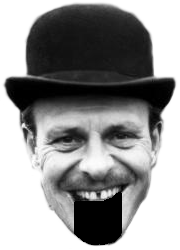
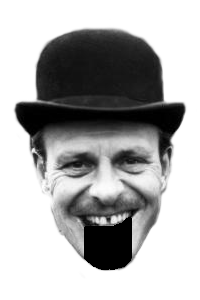
added more comments to the code, as well as cleaned up the unncessary bits

diff --git a/js/soundCreation.js b/js/soundCreation.js
@@ -1,24 +1,35 @@
 
-var intervalID = [];//create storage for the interval ID values so the tones can be stopped
+var intervalID = [];//create storage for the interval ID values so the tones and mouth animations can be stopped
 var context = new AudioContext();
 var masterVolume = context.createGain();
-masterVolume.gain.value = 0.2;
+masterVolume.gain.value = 0.5;//set volume of the beats
 masterVolume.connect(context.destination);//link the volume setting to the AudioContext
-var rap= ""
+//var rap= ""
 var isTTSgoing = false; //used by the startTTS function, and checked by the playSound function to see if there is a current TTS session going, so that the beat doesnt stop between words
+var rapPhrases = ["yo",
+"give it to me",
+"gimme some",
+"thats what",
+"heya",
+"what",
+"lets go",
+"thats it",
+"holla",
+"sup",
+ "player",
+ "homeslice",
+ "homeslizzle" ]; //list of rap words that will be used when generating the rap string
 
 
-//creates a safe and censored version of the rap that is displayed on the page
-function censorship()
-{
-    var censoredRap = rap.replace(/\./g,"")
-    document.getElementById("displayRap").innerHTML = censoredRap
-}
-
-//returns a string rap, which consists of random words from the dictionary between raplike phrases
+/**
+Creates a rap with length number of random dictionary words 
+as well as length number of rapPhrases, so the total length of
+the rap will be length*2 number of phrases
+this function accesses the rapPhrases array and the dist.js file to grab words to create the rap.
+returns an array of length = length*2 that contains string values of random words and rap phrases from rapPhrases array.
+*/
 function createRap(length)
 {
-	var rapwords = ["yo","give it to me","gimme some","thats what","heya","what","lets go","thats it","holla","sup", "player", "homeslice", "homeslizzle" ];
 	var j=0
 	var rap = [];
     var rapString = ""
@@ -26,7 +37,7 @@ function createRap(length)
 	while(j<length)
 	{
 		rand = Math.floor((Math.random()*109560)+1);//there are lots of words in the dict array in the dist.js file
-        rapPhrase = rapwords[Math.floor((Math.random()*rapwords.length))]       
+        rapPhrase = rapPhrases[Math.floor((Math.random()*rapPhrases.length))]       
         rapWord = dict[rand].word
         rap.push(rapWord)
         rap.push(rapPhrase)
@@ -35,9 +46,12 @@ function createRap(length)
 	return rap
 }
 
-//Create a tone with a specified duration, freq, detune and type
-//type is a number from 1-4
-//duration in miliseconds
+/*
+ Creates a tone with a specified duration in milliseconds,
+ a frequency in hertz,
+ a detune value
+ and a integer value for the wavetype from 1-4 (sine, square, sawtooth, triangle)
+*/
 function createSound(duration, frequency, detune, type)
 {
 	duration = duration/1000 //convert from miliseconds to seconds
@@ -52,13 +66,17 @@ function createSound(duration, frequency, detune, type)
 	osc.stop(startTime+duration);
 }
 
+/*
+Recursive function that works its way through the rapArray of of string words and plays them one after another, as well the function
+handles the updating of the rap display <p> (id=display) that shows the current word being spoke and the one before and after it.
+*/
 function startTTS(rapArray, voice, speed, recurseCounter)
 {
     isTTSgoing = true //Speech has started and the beat shouldnt stop
     if(recurseCounter < rapArray.length)//there is more words to say
     {
         var disp = document.getElementById("display")
-        if(recurseCounter == 0)//Cant display the previous word cause there isnt one
+        if(recurseCounter == 0)//On the first word, Cant display the previous word cause there isnt one
         {
             disp.innerHTML=" <br/><b>"+rapArray[recurseCounter]+"</b><br/>"+rapArray[recurseCounter+1]
         }
@@ -79,22 +97,27 @@ function startTTS(rapArray, voice, speed, recurseCounter)
     //else there is nothing to say
 }
 
-//TTS reads the rap and plays the beat
-function startRap(voice, speed) {
-stopRap(intervalID)//stop any currently running raps
-rap = createRap(1000);
-console.log(rap)
-startTTS(rap, voice, speed, 0)
-//censorship();
-//responsiveVoice.speak(rap, voice, {rate: speed});
-playSound(500, 65, 0, 4, 1000)
-playSound(100, 100, 0,4, 400)
-//playSound(100, 1000, 0,4, 2000)
-animateMouth()
-    	
+/*
+creates a rap array, begins TTS playback with a the specified voice and speed, starts the beat and starts the mouth animations
+
+*/
+function startRap(voice, speed)
+{
+    stopRap(intervalID)//stop any currently running raps
+    rap  = createRap(1000);
+    startTTS(rap, voice, speed, 0)
+    
+    //create the beat
+    playSound(500, 65, 0, 4, 1000)
+    playSound(100, 100, 0,4, 400)
+   
+    animateMouth()        	
 };
 
-//stop the beats
+/*
+clears the interval sessions that are running the mouth animations and the beats,
+ as well as sets isTTSgoing to false, stopping the voice and clearing the rap display on the page
+*/
 function stopRap(intervalArray) {
 	{
 		for (i = 0; i < intervalArray.length; i++) { 
@@ -103,10 +126,17 @@ function stopRap(intervalArray) {
 		responsiveVoice.cancel();
 		isTTSgoing = false;
 		intervalArray = [];
+        var disp = document.getElementById("display")
+        disp.innerHTML = "";
 	}
 };
 
-//plays a tone with specificed freq, detuene, type and duration on a loop every so many miliseconds  specified by period
+/*
+plays a sound with a specified duration and period in milliseconds, as well as specified frequency, detune and type in the same
+format as createSound.
+the period specified should be >= to the duration, as the period specifes how often the tone is played, and if the duration of the tune is longer,
+there will be an overlap
+*/
 function playSound(duration, frequency, detune, type, period)
 {	
 	intervalID.push(setInterval(function(){
@@ -121,15 +151,20 @@ function playSound(duration, frequency, detune, type, period)
     }, period))
 }
 
+/*This function accesses the mouth image on the on the page and moves it down 18px, and back up after a specified closeTime in milliseconds essentially animating the mouth*/
 function openThenCloseMouth(closeTime)
 {
    var element = document.getElementById("mouth");
-   //console.log(element.style.top)
    element.style.top = 'calc(50% + 18px)';
    window.setTimeout(function(){element.style.top = '50%'}, closeTime)
    
 } 
-//randomizes the mouth movement by a certian degree run on the same interval block as the sound beats
+
+/*
+Animates the mouth by setting it on an interval of 400 milliseconds, within that 400 millisecond time window the mouth opening and closing sequence
+is slightly randomized, having the mouth open at the start of the 400 milliseconds and closing somewhere between 300 and 400 milliseconds, 
+the randomness of the closing makes the animation look a little more real when played together with the TTS and the beat.
+*/
 function animateMouth()
 {
 
@@ -138,7 +173,7 @@ function animateMouth()
        
         if(isTTSgoing == true)
         {
-        openThenCloseMouth(closeTime)//open and close the mouth at speed between 50 and 100
+        openThenCloseMouth(closeTime)
         }
         else
         {
@@ -148,4 +183,52 @@ function animateMouth()
 
 }
 
+//helper function used in onPressStartOrStop to start the rap
+function clickStart()
+{
+	startRap("UK English Male", 0.9)
+}
+
+/*
+Function called when the user clicks on the image of the rapper, 
+it will start a new rap if there isnt one currently playing or
+ stop the current rap if it is playing
+*/
+function onPressStartOrStop()
+{
+	if(isTTSgoing == true)
+        {
+        stopRap(intervalID);
+        
+        }
+        else
+        {
+        clickStart();
+        }
+}
+
+/*Unused function regarding the Hypenation which never panned out
+My original Idea was to set the mouth animations on a loop that would open and close on sylable/ word breaks, so that it would look realistic,
+unfortuantly I could not figure out a way to run any code in between sylables, 
+I tried an array of the sylables similar to how the rap reader is structured now, but the pronouciation of the words wasnt coming through when
+broken into seperate calls to the responsive voice. 
+I also played around a bit with the google TTS, that supposidly had support of a text to speech markdown language that would have allowed me to 
+add flags into the reading itself to function calls, but it did not pan out, i couldnt get the markdown language to work, I feel like there is
+not yet support for it, as the W3 specifications are pretty new. 
+https://developer.mozilla.org/en-US/docs/Web/API/SpeechSynthesisUtterance/text 
+note above there is suppose to be support for SSML, but i couldnt get it working
+https://developer.mozilla.org/en-US/docs/Web/API/SpeechSynthesisUtterance/onmark
+my plan was to use the function above, build an SSML document and add marks at the sylable start/stop points so I could animate the mouth on the marks
+unfortunatly I could not get the SSML to work, maybe will have to try again some other time, there is very little information or support on
+the subject.
+//TAKES THE TEXT IN p.hyphenate and put hyphens between sylables
+function hyp()
+{
+    $('p.hyphenate').hyphenate('en-us');
+    var hypString = document.getElementById("hyp").innerHTML
+    console.log(hypString)
+    var result = hypString.replace(/[\u00AD\u002D\u2011]+/g,'-');
+    console.log(result)
+}
+*/
 

diff --git a/index.html b/index.html
@@ -13,87 +13,16 @@
 <link href='https://fonts.googleapis.com/css?family=Tangerine' rel='stylesheet' type='text/css'>
 
 <script>
-function createCustomSound()
-{
-	var freq = document.getElementById('frequency').value
-	var detune = document.getElementById('detune').value
-	var dur = document.getElementById('duration').value
-	var per = document.getElementById('period').value
-	var type = document.getElementById('type').value
-	playSound(dur, freq, detune, type, per)
-}
-
-function clickStart()
-{
-	//var voice = document.getElementById("voiceType").value;
-	//var speed = parseInt(document.getElementById("voiceSpeed").value);
-	//var speedDec = speed.toFixed(2)/10.00;//move the value to have 2 decimal places
-	startRap("UK English Male", 0.9)
-}
-//stopRap(intervalID)
-
-//TAKES THE TEXT IN p.hyphenate and put hyphens between sylables
-function hyp()
-{
-
-    $('p.hyphenate').hyphenate('en-us');
-    var hypString = document.getElementById("hyp").innerHTML
-    console.log(hypString)
-    var result = hypString.replace(/[\u00AD\u002D\u2011]+/g,'-');
-    console.log(result)
-}
-//start or stop the rap depending on if its going already
-function onPressStartOrStop()
-{
-	if(isTTSgoing == true)
-        {
-        stopRap(intervalID);
-        }
-        else
-        {
-        clickStart();
-        }
-}
-//stopRap(intervalID)
 
 </script>
     </head>
     <body>
         <div class="container">
-            <!--<h1>Generated Rap Experience</h1>
-            <p id="displayRap"></p>
-            <button id="play" onclick='clickStart();'>Start</button>
-			<button id="play" onclick='stopRap(intervalID)'>Stop</button>
-			<select id="voiceType">
-			  <option value="UK English Male">Male</option>
-			  <option value="UK English Female">Female</option>
-			</select>
-			<p>Voice Speed: </p><input type="range" id="voiceSpeed" value="10" min='0' max='20'>-->
         </div>
-<p id="display" style="text-align:center; position: absolute;top: calc(50% - 200px); left: 50%; height:100px; width:100px; margin-left: -50px; margin-top: -50px; font-size: 32px; font-family: 'Tangerine', cursive;"></p>
-        <div>
-            
-            <img id="face" src="images/britishManFace-withoutMouth.png" onclick='onPressStartOrStop();' style="position: absolute; top: 50%; left: 50%; margin-left: -90px; margin-top: -125px;">
-
-            <img id="mouth" src="images/britishManFace-mouthOnly.png" onclick='onPressStartOrStop();' style="position: absolute; top: 50%; left: 50%; margin-left: -90px; margin-top: -125px;">
+            <p id="display" style="text-align:center; position: absolute;top: calc(50% - 200px); left: 50%; height:100px; width:100px; margin-left: -50px; margin-top: -50px; font-size: 32px; font-family: 'Tangerine', cursive;"></p>
+        <div>    
+            <img id="face" src="images/britishManFace-withoutMouth.png" onclick='onPressStartOrStop();' style="position: absolute; top: 50%; left: 50%; margin-left: -100px; margin-top: -150px;">
+            <img id="mouth" src="images/britishManFace-mouthOnly.png" onclick='onPressStartOrStop();' style="position: absolute; top: 50%; left: 50%; margin-left: -100px; margin-top: -150px;">
         </div>
-		<p id="hyp" class="hyphenate"></p>
-		<!--
-		<div>
-			<h2>Create new tone</h2>
-			<p>Freq: </p><input type="range" id="frequency" value="440" min='65' max='4000'>
-			<p>detune: </p><input type="range" id="detune" value="0" min='-100' max='100'>
-			<p>duration: </p><input type="number" id="duration">
-			<p>period: </p><input type="number" id="period">
-			<select id="type">
-			  <option value="1">sine</option>
-			  <option value="2">square</option>
-			  <option value="3">sawtooth</option>
-			  <option value="4">triangle</option>
-			</select>
-			<button id="createCustom" onclick='createCustomSound()'>Create</button>
-			
-		</div>
-		-->
     </body>
 </html>
